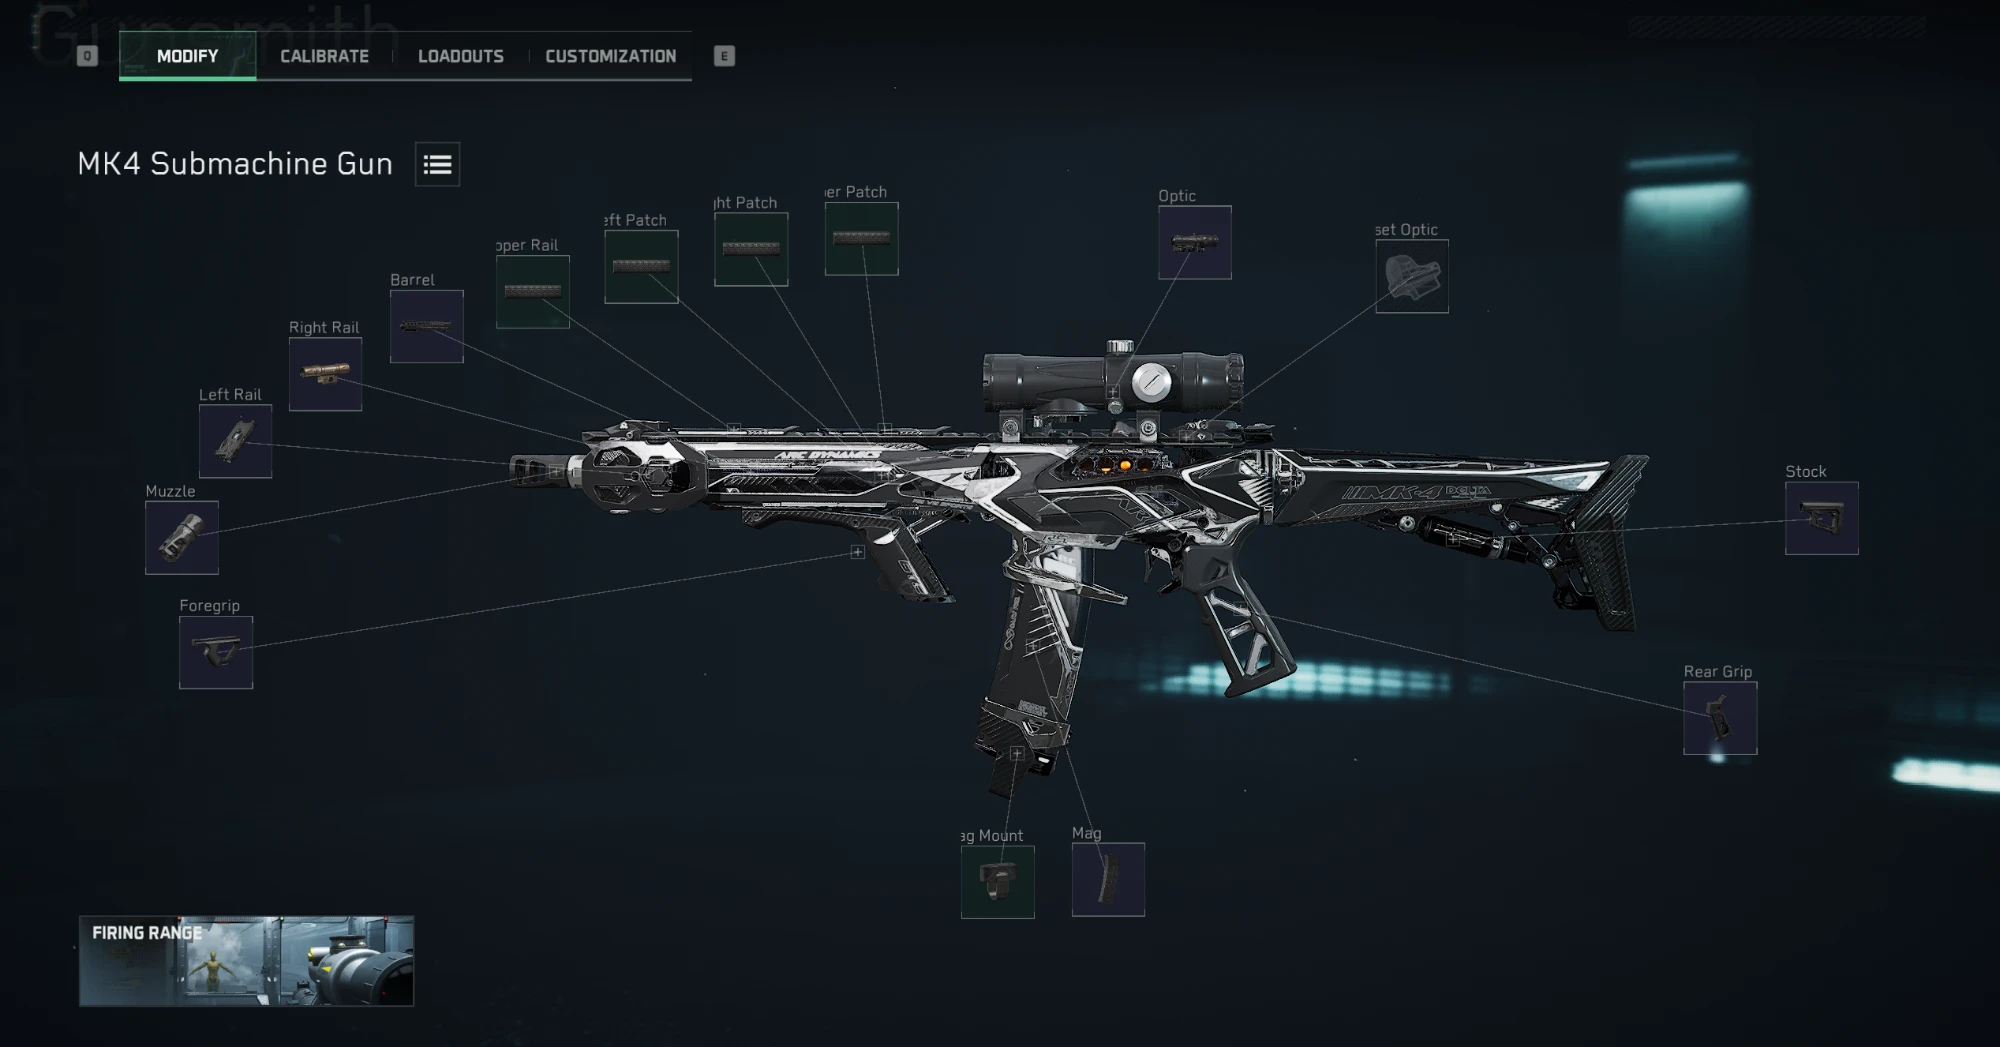
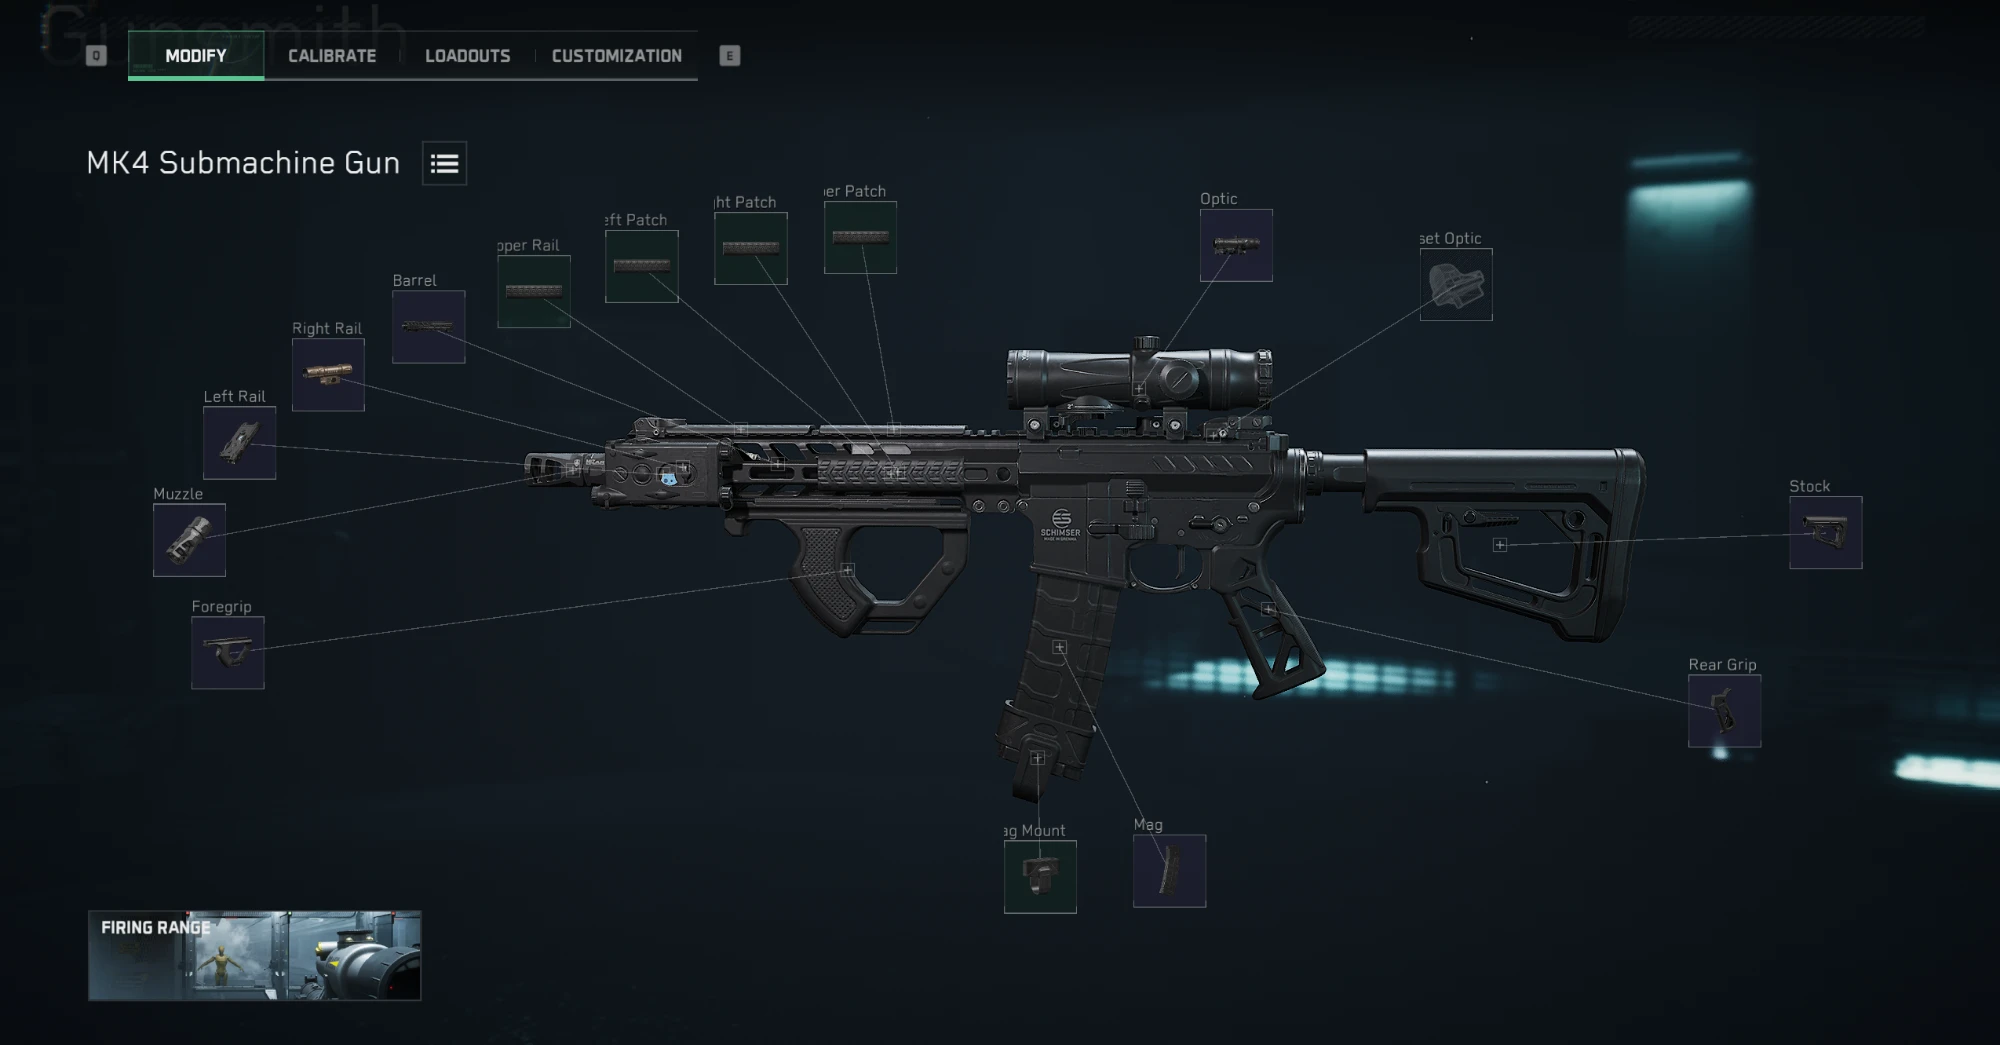
Update MK4 build code and screenshots
Claude-Session: https://claude.ai/code/session_01MEwK1GBeKu5nA7oofRz3c1

diff --git a/js/builds.js b/js/builds.js
@@ -68,7 +68,7 @@ window.GUN_BUILDS = {
       code: "MDR Assault Rifle-Operations (Extraction Mode)-6LEFLPK0F1274DR0HHHLC" },
     { id: "mk4", weapon: "MK4", category: "SMG", image: "images/guns/mk4.webp",
       calibration: "images/guns/mk4-calibration.webp",
-      code: "MK4 Submachine Gun-Operations (Extraction Mode)-6LJSPAO0F1274DR0HHHLC" }
+      code: "MK4 Submachine Gun-Operations (Extraction Mode)-6LP2NCO014H9D6PDMV79E" }
   ],
 
   // Not shown on the site: these codes have no View build or Calibration screenshot yet.
